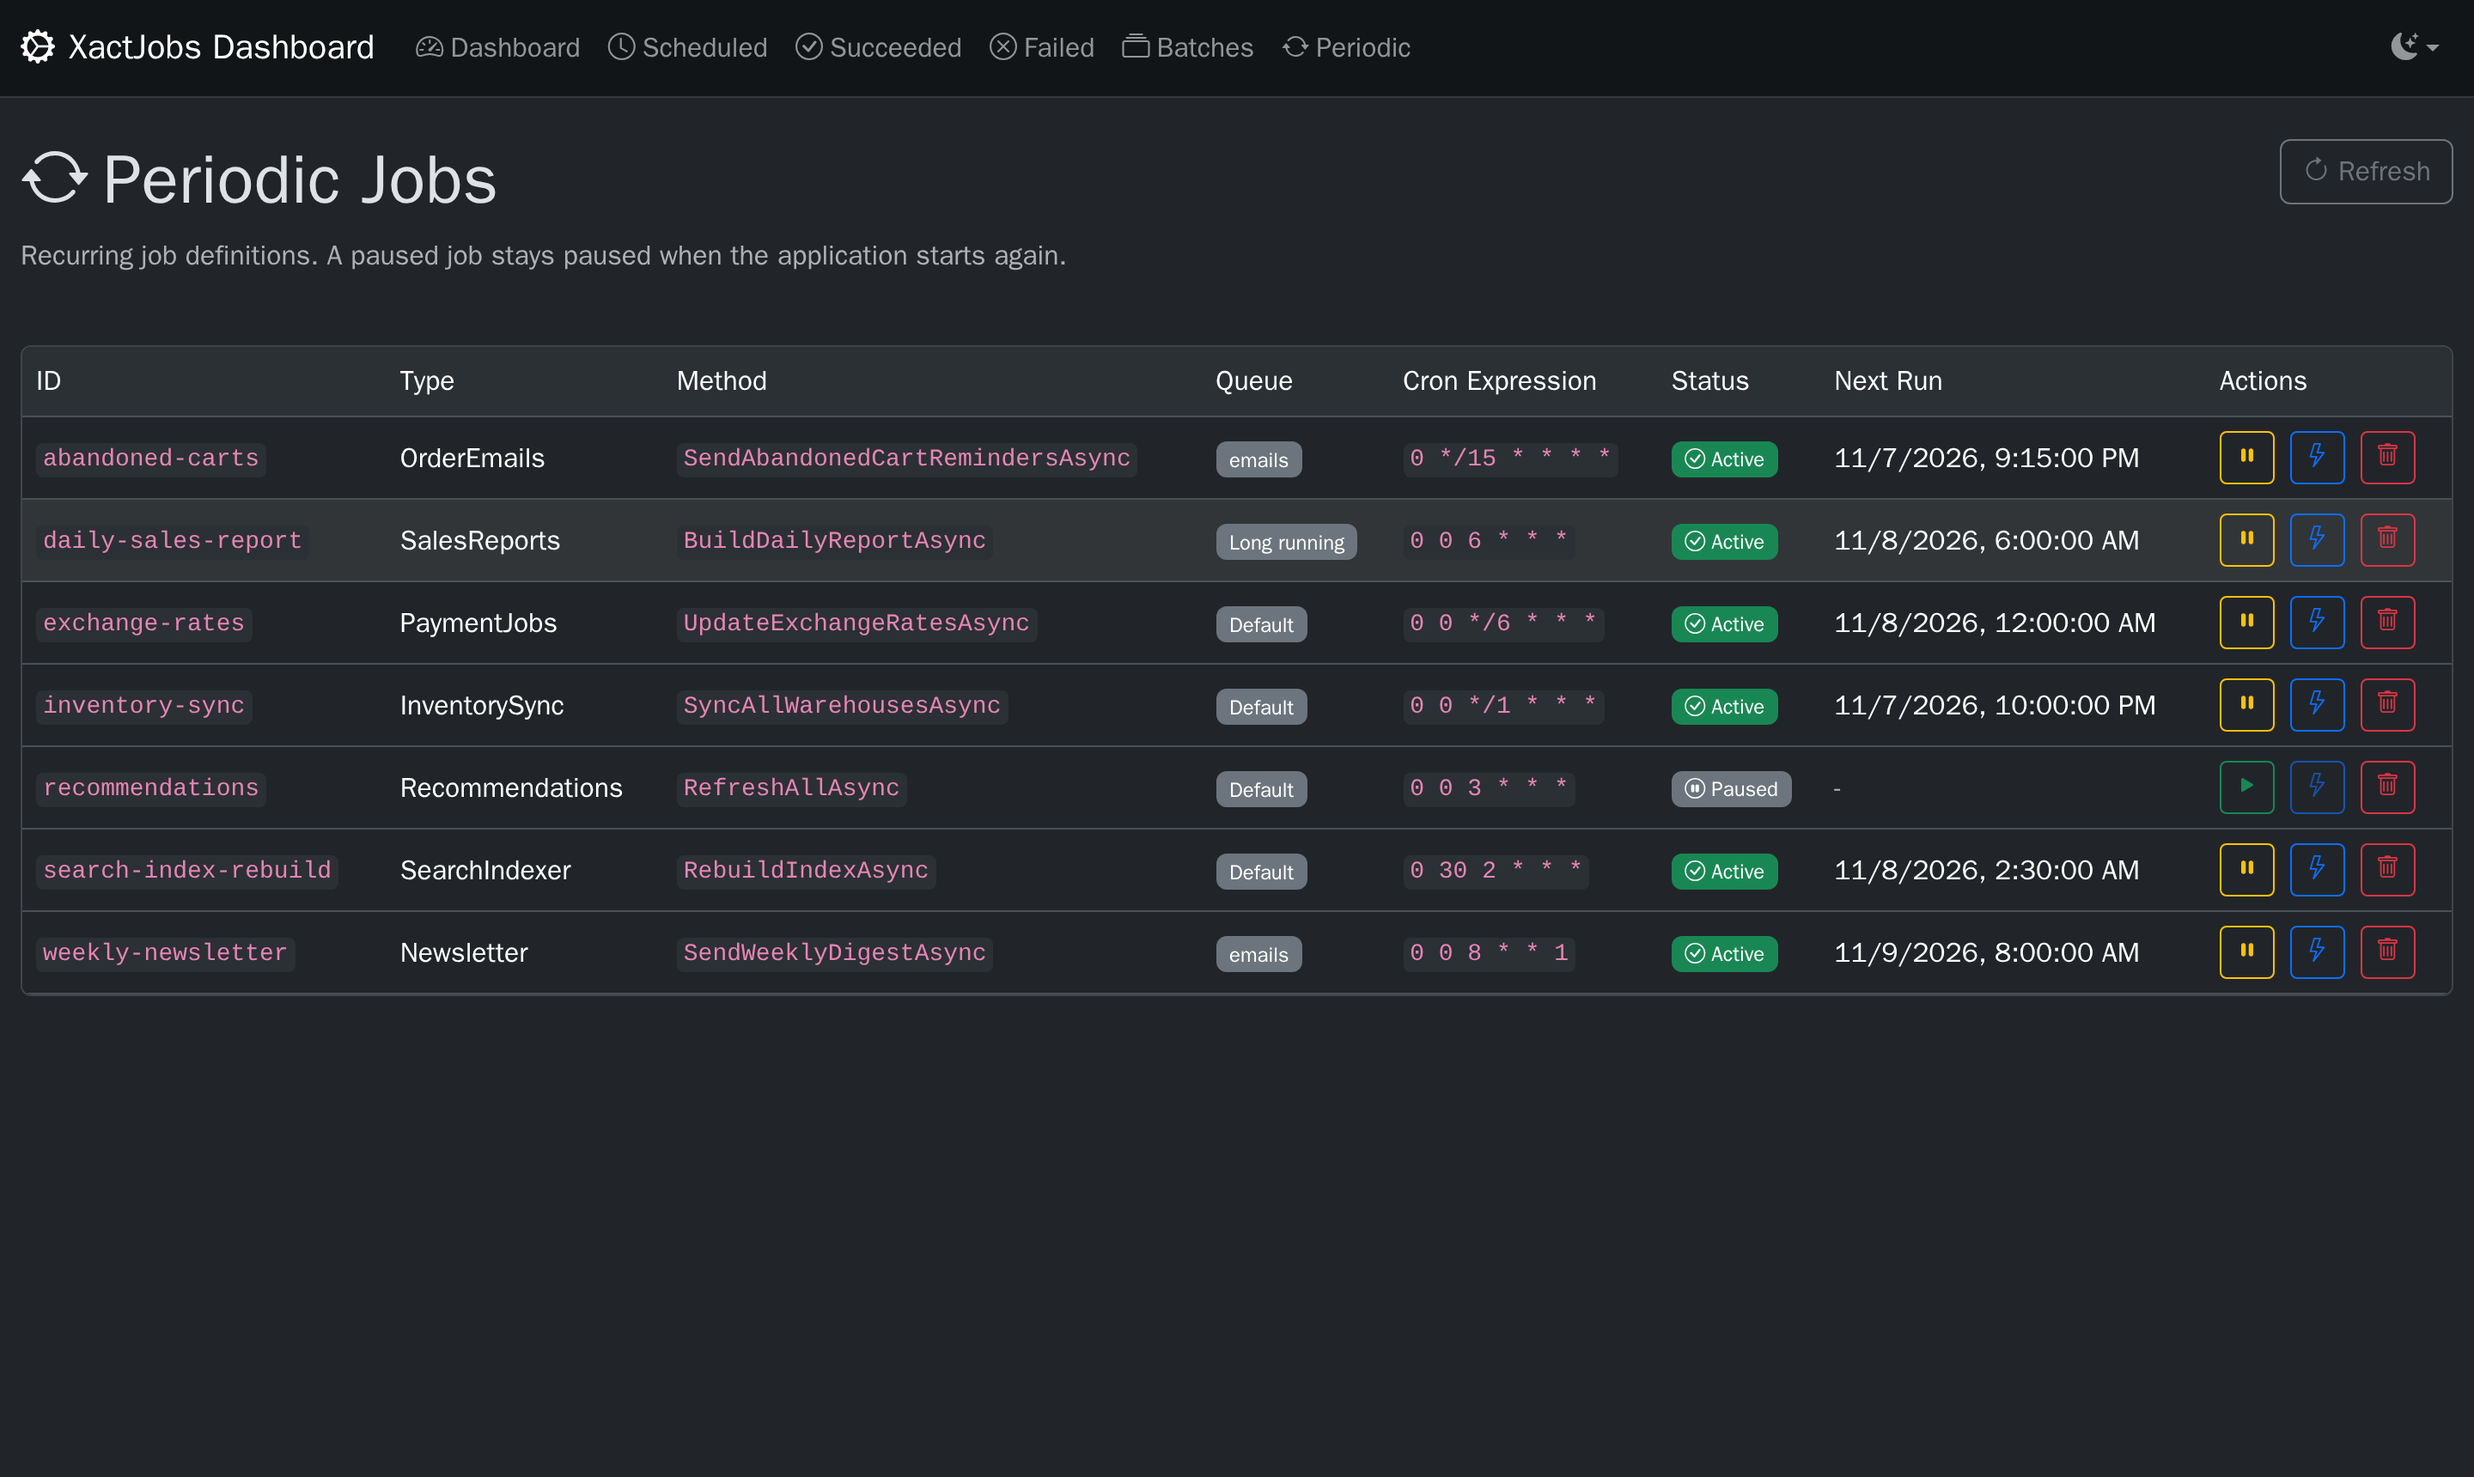
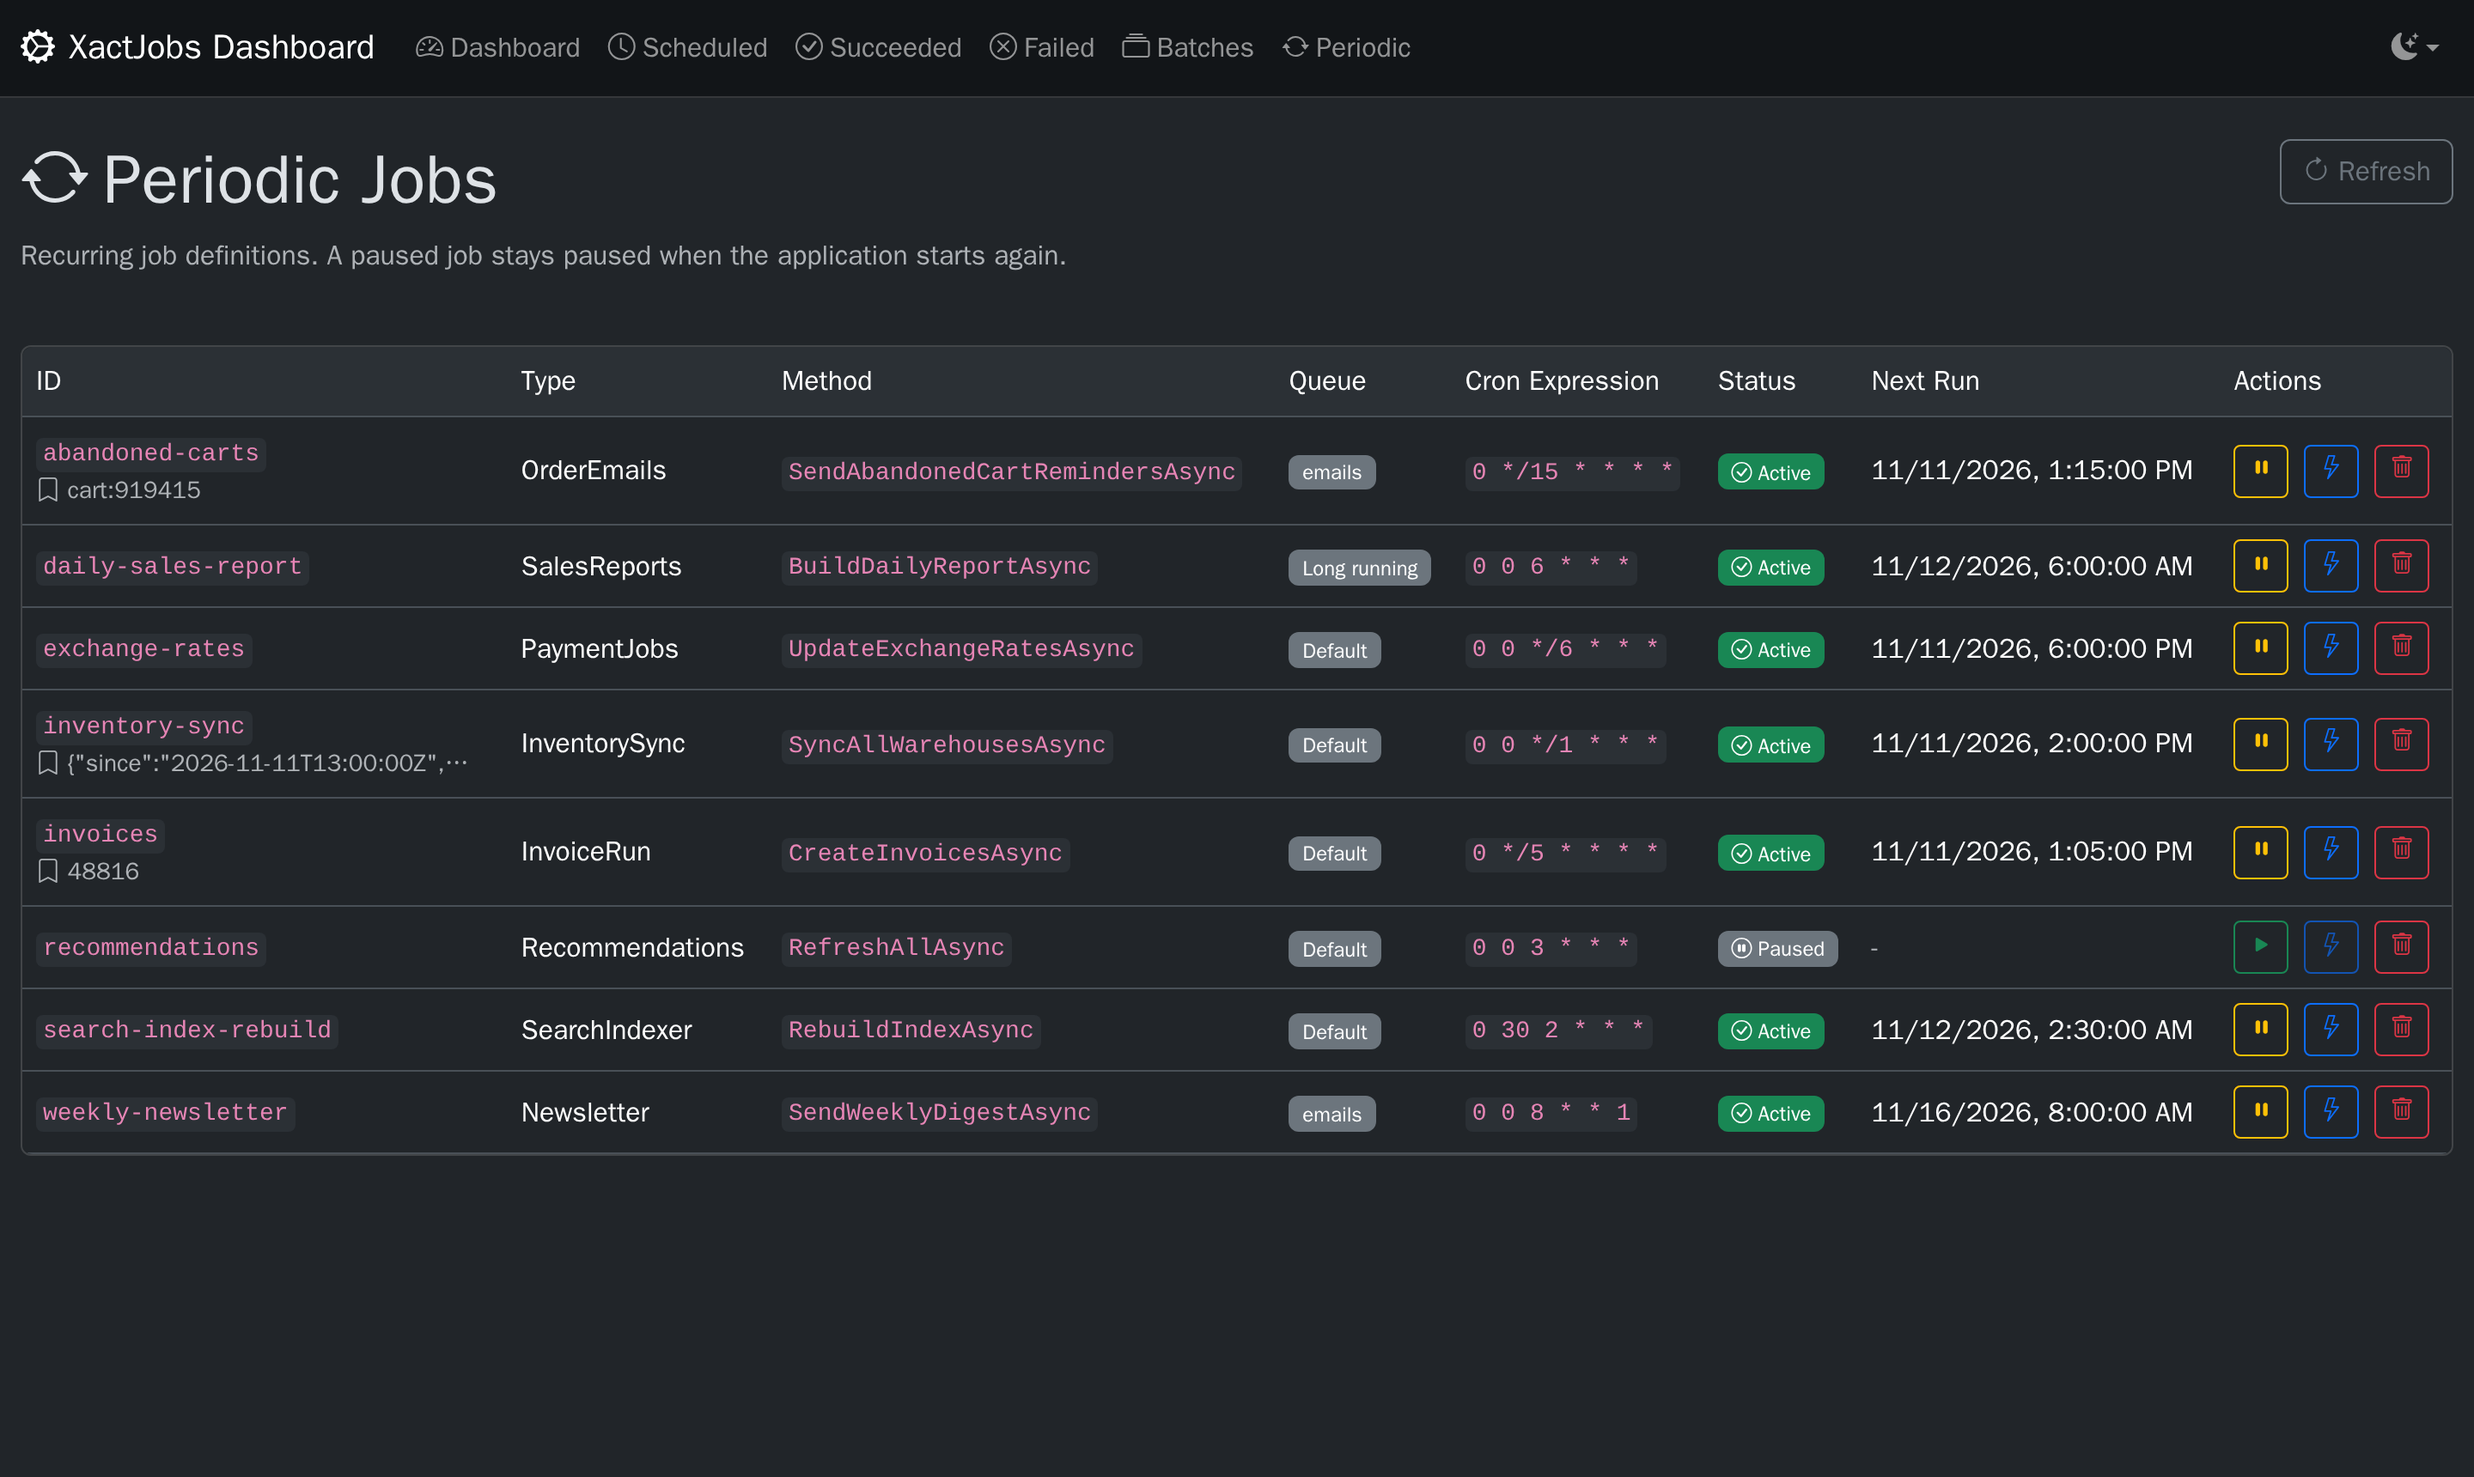
Dashboard screenshots with periodic job state
periodic.png shows the periodic jobs' states, and the new history.png the
succeeded runs of periodic jobs whose state changed, both in the light and
dark themes. The README and the dashboard page show them, and the periodic
jobs page (now .mdx, for the screenshots) at the end of State between runs.

Claude-Session: https://claude.ai/code/session_01MHH4BJTPhY7vGGsYfp41PK

diff --git a/README.md b/README.md
@@ -674,7 +674,9 @@ The API endpoints that change data require an antiforgery token, which the dashb
 
 ![A failed job's error message and stack trace](https://raw.githubusercontent.com/XactJobs/XactJobs/main/docs/images/failed-job.png)
 
-![Periodic jobs: their cron expressions and next runs, one of them paused](https://raw.githubusercontent.com/XactJobs/XactJobs/main/docs/images/periodic.png)
+![Periodic jobs: their cron expressions, next runs and states, one of them paused](https://raw.githubusercontent.com/XactJobs/XactJobs/main/docs/images/periodic.png)
+
+![Succeeded jobs, with the runs of periodic jobs whose state changed](https://raw.githubusercontent.com/XactJobs/XactJobs/main/docs/images/history.png)
 
 ![Active batches: their progress, failed jobs and waiting continuations](https://raw.githubusercontent.com/XactJobs/XactJobs/main/docs/images/batches.png)
 
